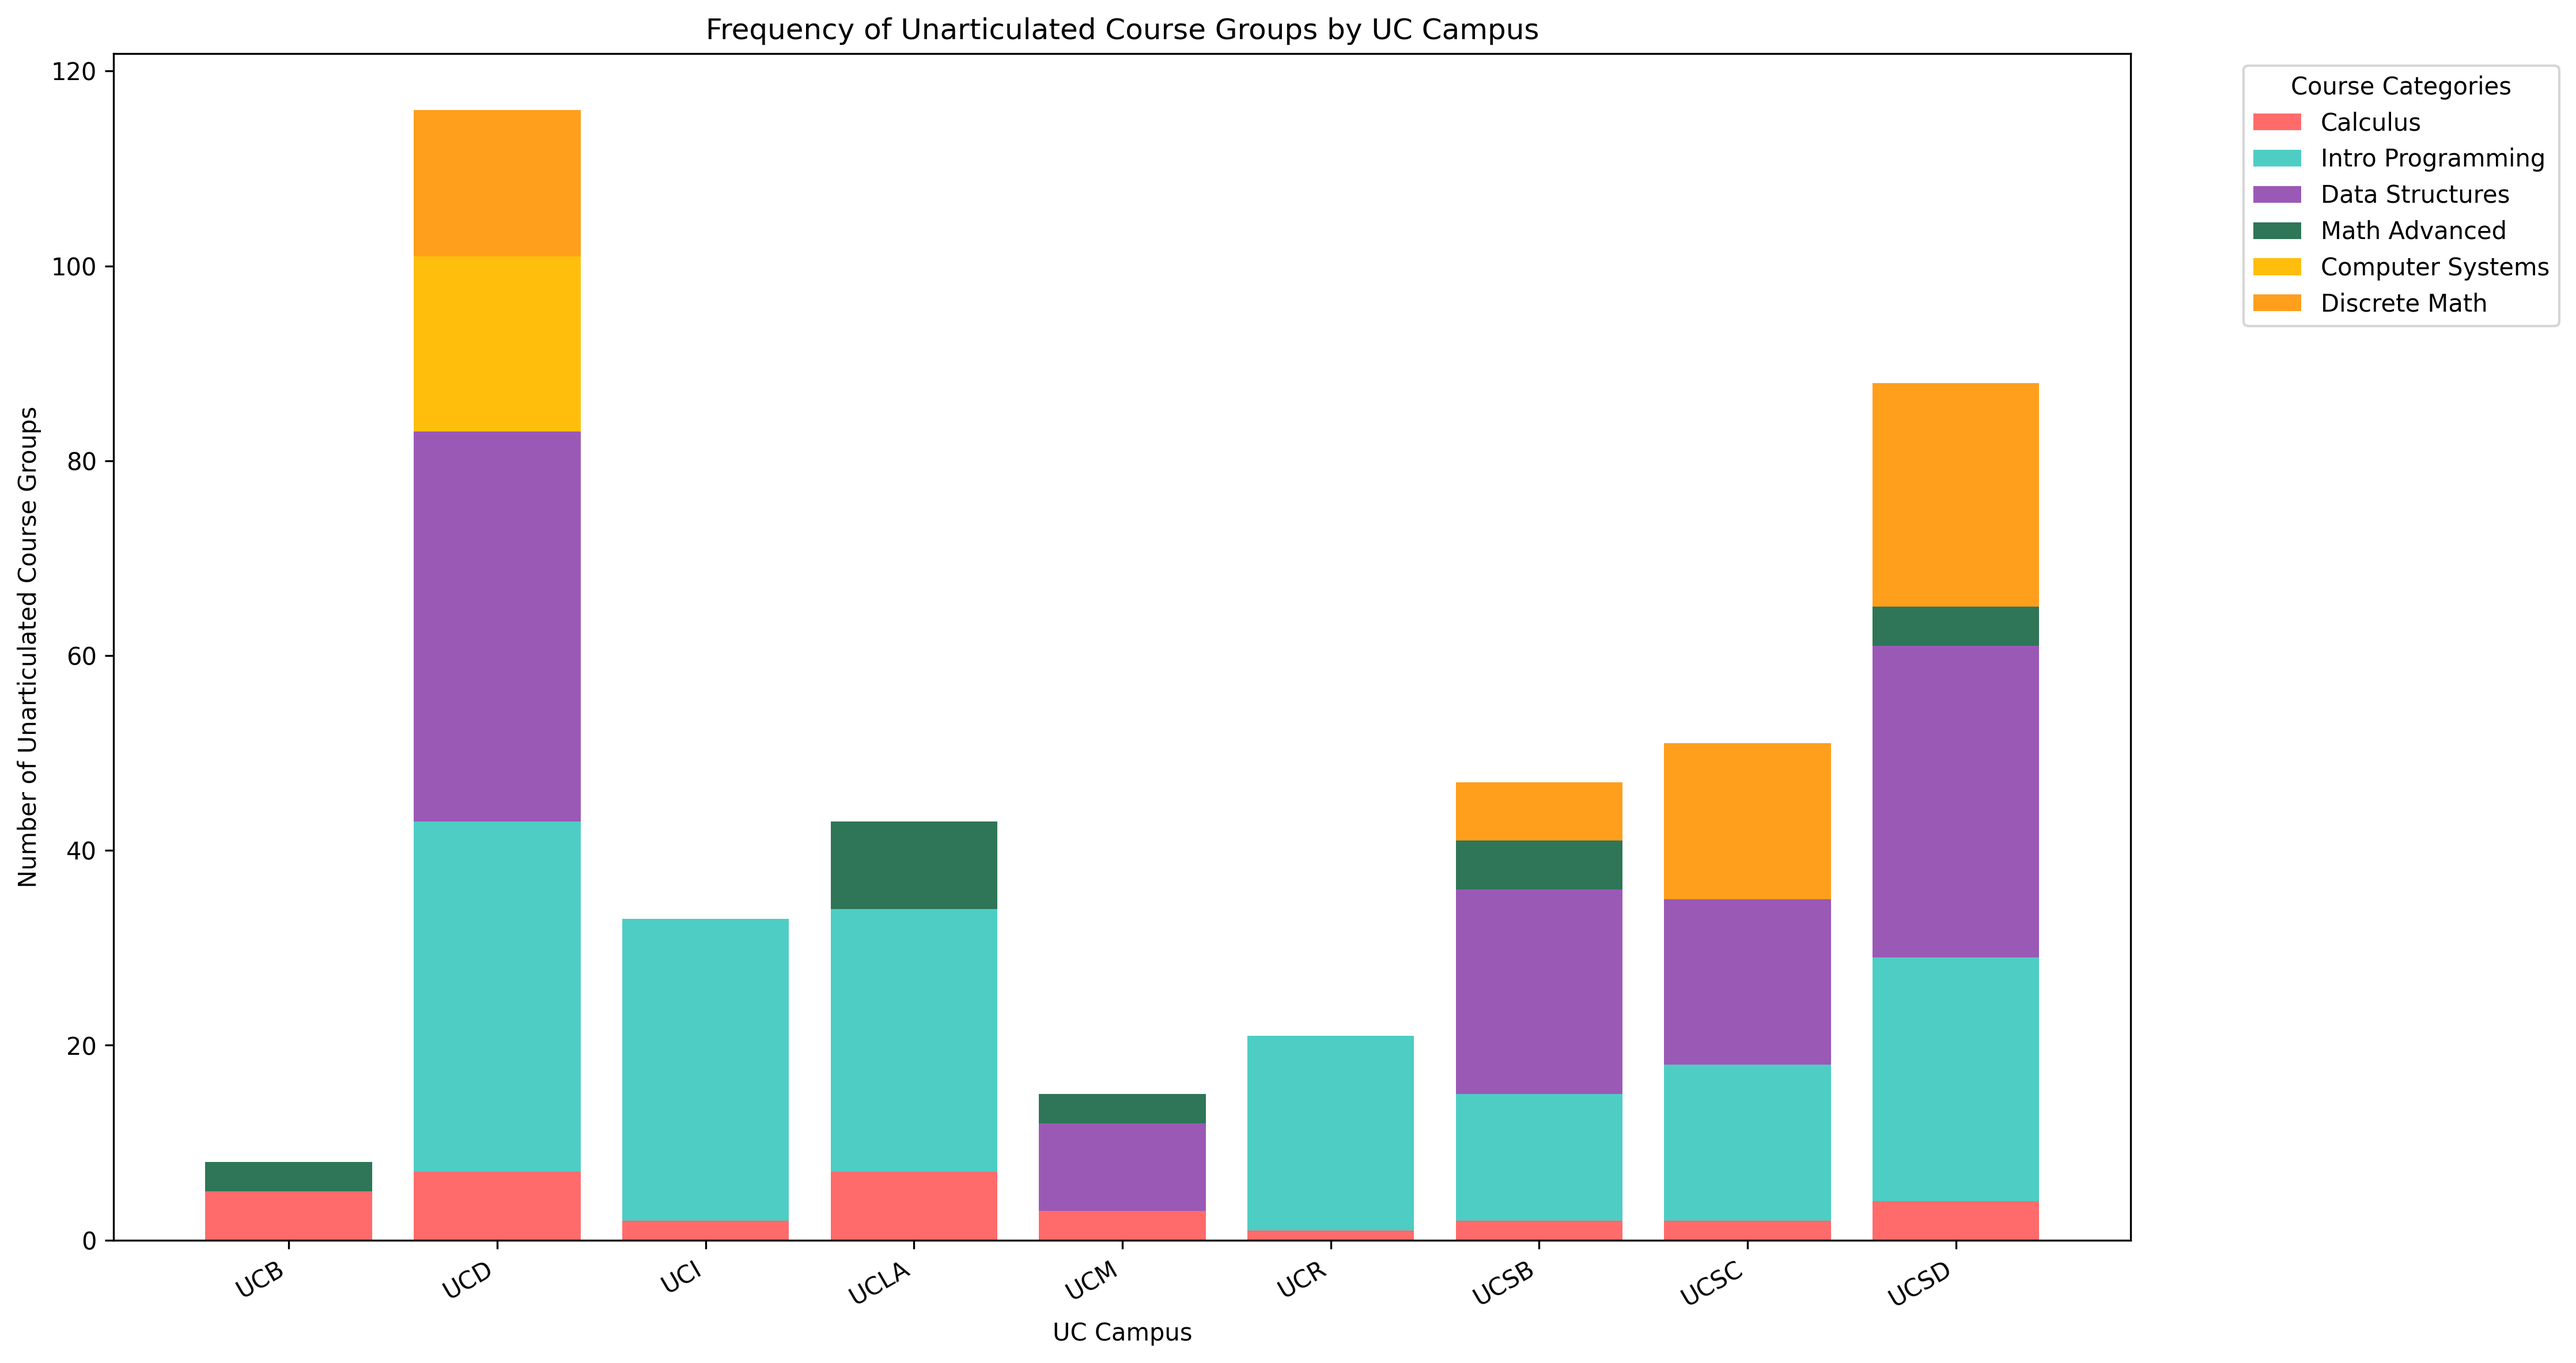
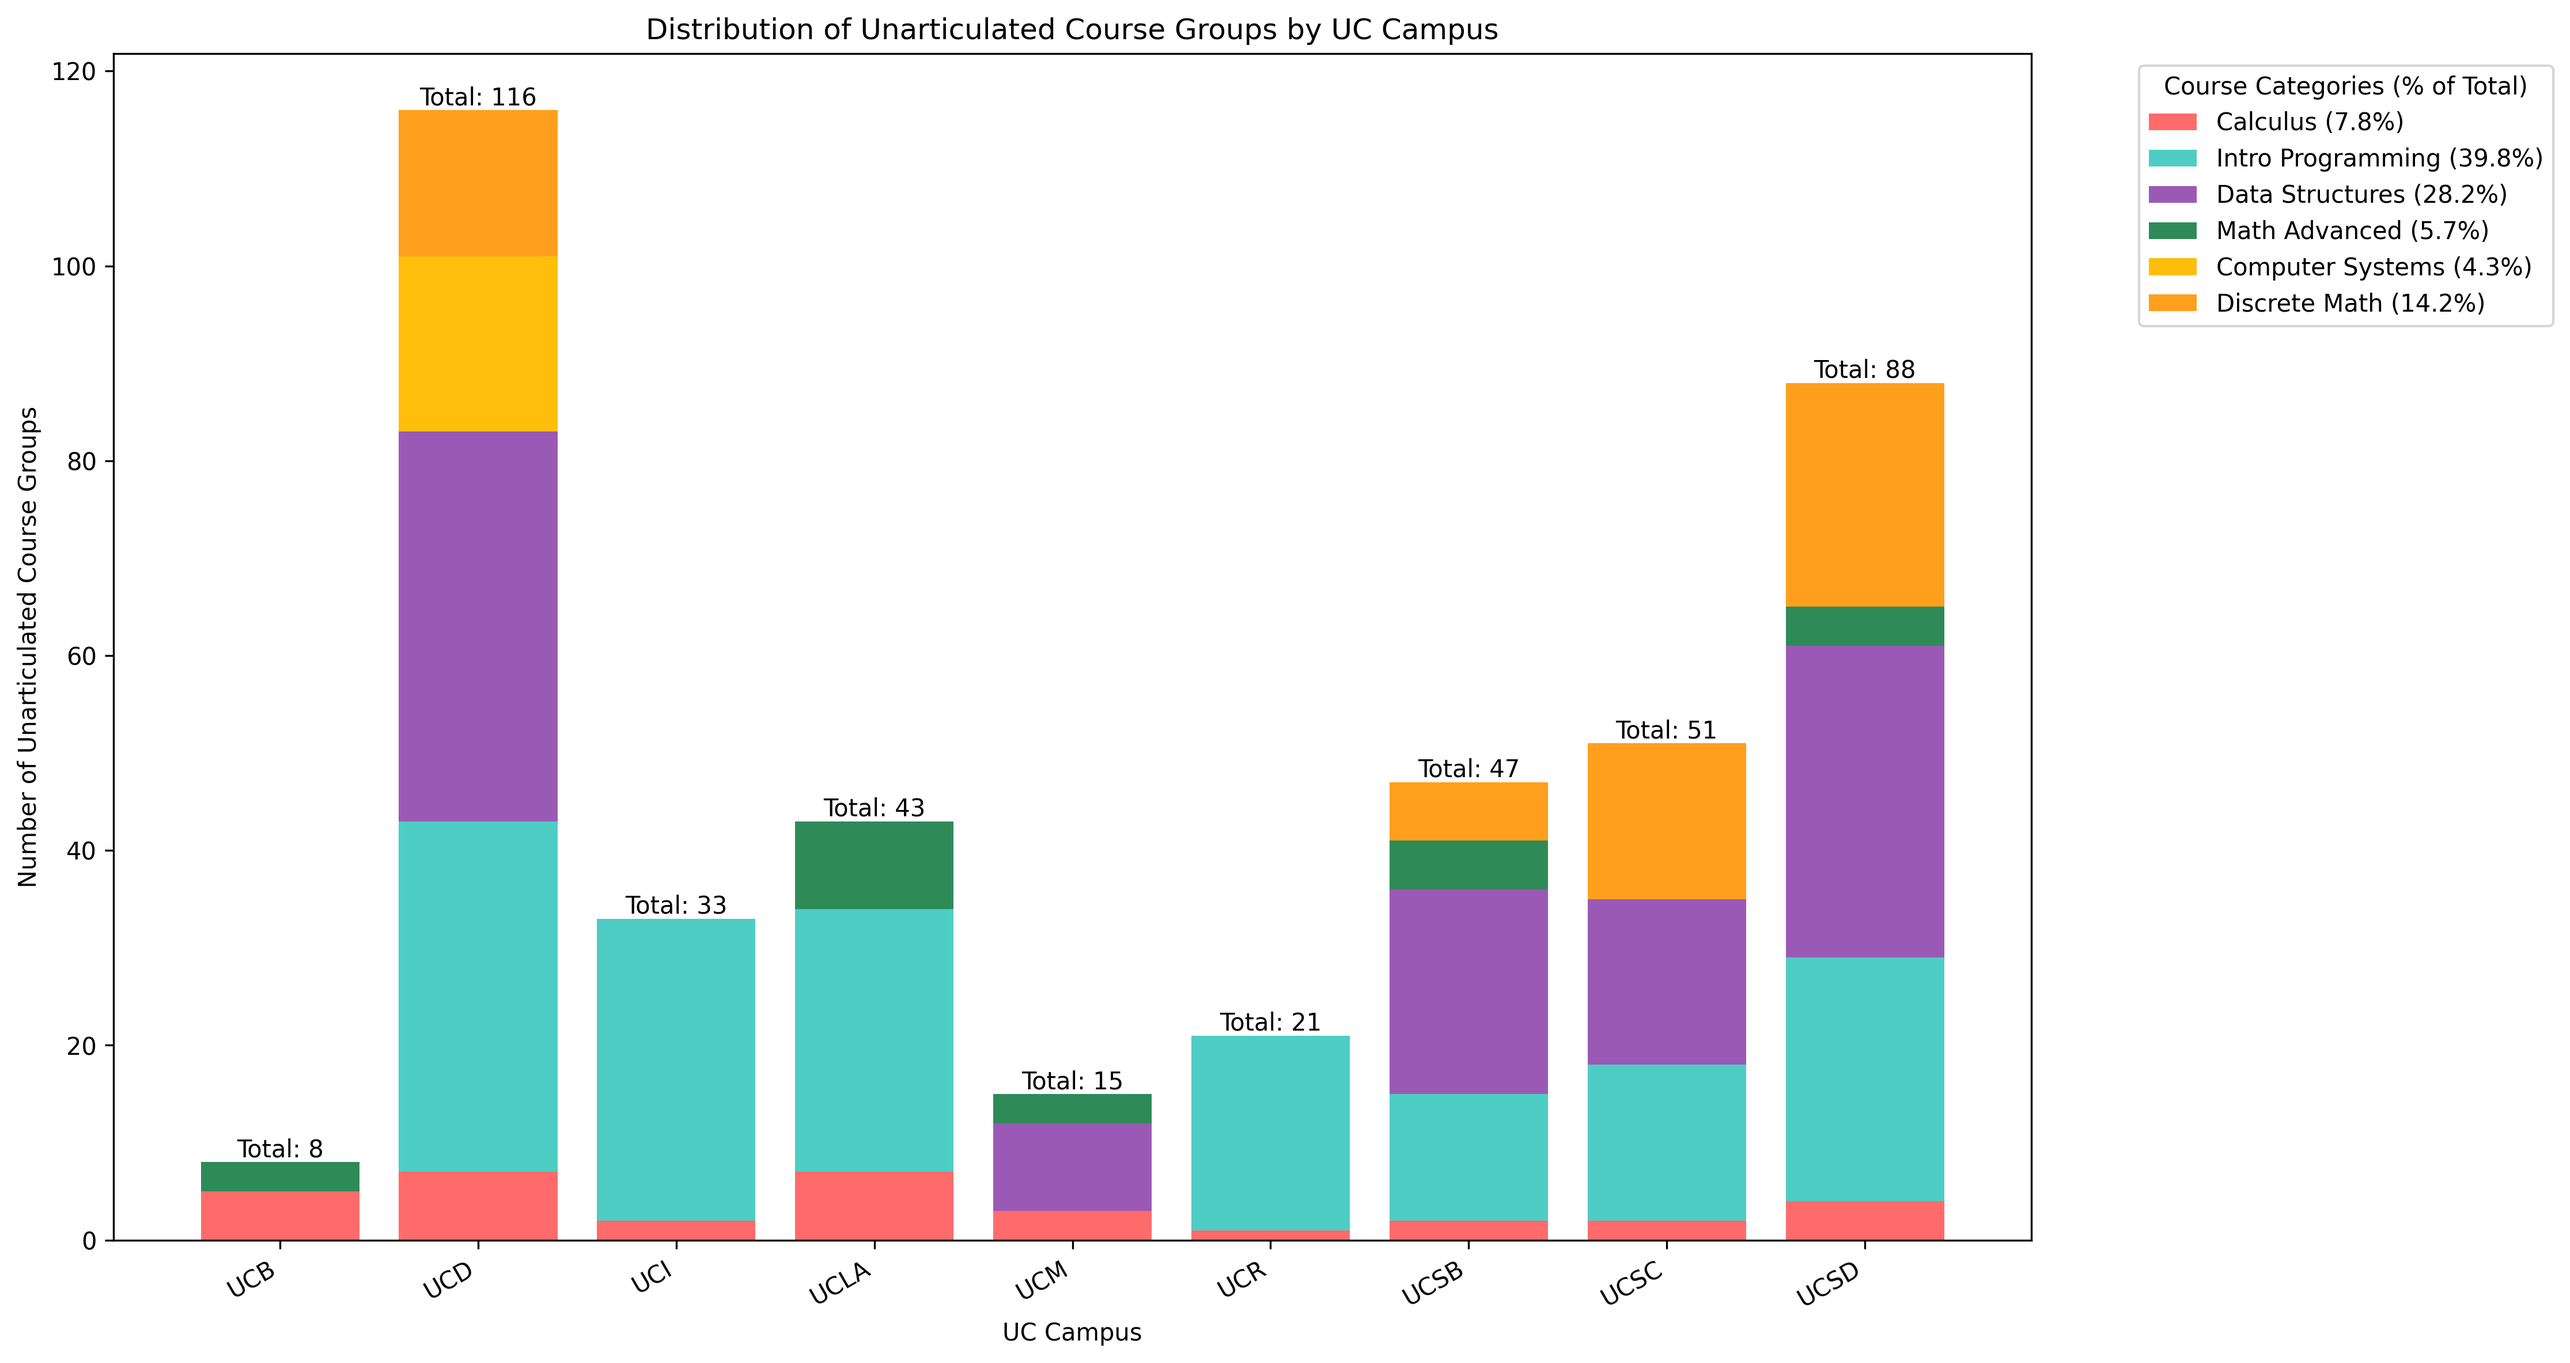
finalized group frequency analysis

diff --git a/question_2-3/district-level/detailed_district_least_options.py b/question_2-3/district-level/detailed_district_least_options.py
@@ -227,14 +227,14 @@ def create_group_frequency_graph(data):
         },
         'intro_programming': {
             'color': '#4ECDC4',  # Teal
-            'patterns': ['intro', 'comp']
+            'patterns': ['intro', 'comp', 'problem']
         },
         'data_structures': {
             'color': '#9B59B6',  # Purple
             'patterns': ['data', 'struct', 'algorithm']
         },
         'math_advanced': {
-            'color': '#2E7657',  # Sea Green
+            'color': '#2E8B57',  # Sea Green (darker)
             'patterns': ['linear', 'differential']
         },
         'computer_systems': {
@@ -262,10 +262,33 @@ def create_group_frequency_graph(data):
         if not assigned:
             ungrouped.append(group)
     
-    # Prepare data for stacked bar plot
-    bottom = np.zeros(len(uc_names))
+    # Calculate total counts and percentages for each category
+    category_totals = {}
+    total_unarticulated = 0
+    
+    for category, groups in color_grouped_courses.items():
+        if not groups:
+            continue
+        category_total = 0
+        for group in groups:
+            for uc in uc_names:
+                count = uc_group_counts[uc].get(group, 0)
+                category_total += count
+        category_totals[category] = category_total
+        total_unarticulated += category_total
+    
+    # Add ungrouped total
+    ungrouped_total = sum(
+        uc_group_counts[uc].get(group, 0)
+        for group in ungrouped
+        for uc in uc_names
+    )
+    if ungrouped_total > 0:
+        category_totals['Other'] = ungrouped_total
+        total_unarticulated += ungrouped_total
     
     # Plot each category's groups together
+    bottom = np.zeros(len(uc_names))
     for category, groups in color_grouped_courses.items():
         if not groups:  # Skip empty categories
             continue
@@ -280,29 +303,40 @@ def create_group_frequency_graph(data):
                 heights.append(count)
             category_total += heights
         
+        # Calculate percentage for legend label
+        percentage = (category_totals[category] / total_unarticulated) * 100
+        label = f"{category.replace('_', ' ').title()} ({percentage:.1f}%)"
+        
         # Plot the combined category
         plt.bar(uc_names, category_total, bottom=bottom, 
-               label=category.replace('_', ' ').title(), color=color)
+               label=label, color=color)
         bottom += category_total
     
     # Plot ungrouped courses last as a single category
     if ungrouped:
-        ungrouped_total = np.zeros(len(uc_names))
+        ungrouped_total_heights = np.zeros(len(uc_names))
         for group in sorted(ungrouped):
             heights = []
             for uc in uc_names:
                 count = uc_group_counts[uc].get(group, 0)
                 heights.append(count)
-            ungrouped_total += heights
+            ungrouped_total_heights += heights
         
-        plt.bar(uc_names, ungrouped_total, bottom=bottom, 
-               label='Other Courses', color='#CCCCCC')
+        percentage = (category_totals['Other'] / total_unarticulated) * 100
+        plt.bar(uc_names, ungrouped_total_heights, bottom=bottom, 
+               label=f"Other Courses ({percentage:.1f}%)", color='#CCCCCC')
     
-    plt.title('Frequency of Unarticulated Course Groups by UC Campus')
+    # Add total counts on top of each bar
+    total_heights = bottom  # bottom now contains cumulative heights
+    for i, uc in enumerate(uc_names):
+        plt.text(i, total_heights[i], f'Total: {int(total_heights[i])}',
+                ha='center', va='bottom')
+    
+    plt.title('Distribution of Unarticulated Course Groups by UC Campus')
     plt.xlabel('UC Campus')
     plt.ylabel('Number of Unarticulated Course Groups')
     plt.xticks(rotation=30, ha='right')
-    plt.legend(title='Course Categories', bbox_to_anchor=(1.05, 1), loc='upper left')
+    plt.legend(title='Course Categories (% of Total)', bbox_to_anchor=(1.05, 1), loc='upper left')
     plt.tight_layout()
     
     # Save to course_analysis directory
